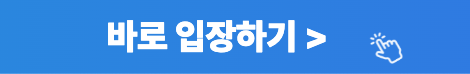
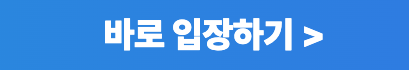
update img

Changed region(s): [[0.2054, 0.2571, 0.8802, 0.8571], [0.0, 0.9714, 1.0, 1.0]]

diff --git a/invitation.html b/invitation.html
@@ -48,34 +48,33 @@
       <img class="line01" src="./img/line.png" alt="">
    </h2>
    
-      <h2 style="font-weight:bold;line-height:140%;">1. 현재 페이지 아래에 있는<br>'바로 입장하기' 버튼을 클릭을 해주세요.<br><br>
+      <h2 style="font-weight:bold;line-height:140%;">1. 현재 페이지 아래에 떠 있는<br>'바로 입장하기' 버튼을 클릭을 해주세요.<br><br>
       </h2>
-         <img src="./img/btn-1.png" alt="" class="i1">   <br><br><br><br>
+         <img src="./img/btn-1.png" alt="" class="i1" style="max-width:300px;">   
+         <br><br><br><br>
 
          <h2 style="font-weight:bold;line-height:140%;">2. '그룹 오픈채팅 참여하기'를<br>클릭(<img src="./img/pointer.png" style="width:35px;">)을 해주세요.<br><br>
          </h2>
-            <img src="./img/invt-1.gif" alt="" class="i1" style="border:1px solid #000;">  <br><br><br><br>
+            <img src="./img/invt-1.gif" alt="" class="i1" style="border:1px solid #000; max-width:300px;">  <br><br><br><br>
 
          <h2 style="font-weight:bold;line-height:140%;">3. '오픈채팅 참여하기'를<br>클릭(<img src="./img/pointer.png" style="width:35px;">)을 해주세요.<br><br>
          </h2>
-            <img src="./img/invt-2.gif" alt="" class="i1">  <br><br><br><br>
+            <img src="./img/invt-2.gif" alt="" class="i1" style="max-width:300px;">  <br><br><br><br>
 
             <h2 style="font-weight:bold;line-height:140%;">4. 여러분의 성함 혹은<br>프로필을 선택(<img src="./img/pointer.png" style="width:35px;">)해 해주세요.<br><br>
             </h2>
-               <img src="./img/invt-3.gif" alt="" class="i1">  <br><br><br><br>
+               <img src="./img/invt-3.gif" alt="" class="i1" style="max-width:300px;">  <br><br><br><br>
 
                <h2 style="font-weight:bold;line-height:140%;">5. 입장이 완료되었습니다!<br>이젠 매일 한 편씩<br>아침마다 받아보세요 ~<br><br>
                </h2>
-                  <img src="./img/invt-4.jpeg" alt="" class="i1">  <br><br><br><br>
+                  <img src="./img/invt-4.jpeg" alt="" class="i1" style="max-width:300px;">  <br><br><br><br>
          
                   <img class="line01" src="./img/line.png" alt="">
                   <h2 style="padding-bottom:0 !important;line-height:140%;">마음 건강을 위한 정보 전달을<br>목적으로 하는 만큼<br>사적인 이야기는 제한되니<br>규칙을 꼭 확인해주세요!
                    <img class="line01" src="./img/line.png" alt=""><br>
      
                     
-                   <a href="https://open.kakao.com/o/gbIfAl7g" class="btn-hover color-9" target="_blank">
-                    <span class="floating_text">바로 입장하기 ></span>
-                 </a><br><br>
+            
                  
 </div>
    </article>
@@ -139,171 +138,172 @@
  </script>
 
 <style>
-   /* 플로팅 메뉴 스타일 */
-   .floating_btn {
-      position: fixed;
-    left: 0;
-    right: 0;
-    bottom: 0;
-    z-index: 300;
-      font-size: 32px;
-      font-weight: 600;
-      color: #fff;
-      cursor: pointer;
-      /* margin: 20px; */
-      height: 68px;
-      text-align:center;
-      vertical-align: middle !important;
-      border: none;
-      background-size: 300% 100%;
-  
-      /* border-radius: 50px; */
-      moz-transition: all .4s ease-in-out;
-      -o-transition: all .4s ease-in-out;
-      -webkit-transition: all .4s ease-in-out;
-      transition: all .4s ease-in-out;
-   }
-
-   .floating_text {
-    display: inline-block;
-    /* vertical-align: top; */
-    color: #fff;
-    font-size: 32px;
-    line-height: 68px;
-    font-weight: 900;
-}
-
-.floating_text:hover {
-    color: #fff2aa;
-    transition:1s;
-    
-}
-
-@-webkit-keyframes gradient {
-	0% {
-		background-position: 0% 50%;
-	}
-	50% {
-		background-position: 100% 50%;
-	}
-	100% {
-		background-position: 0% 50%;
-	}
-}
-
-@keyframes gradient {
-	0% {
-		background-position: 0% 50%;
-	}
-	50% {
-		background-position: 100% 50%;
-	}
-	100% {
-		background-position: 0% 50%;
-	}
-
+    /* 플로팅 메뉴 스타일 */
+    .floating_btn {
+       position: fixed;
+     left: 0;
+     right: 0;
+     bottom: 0;
+     z-index: 300;
+       font-size: 32px;
+       font-weight: 600;
+       color: #fff;
+       cursor: pointer;
+       /* margin: 20px; */
+       height: 68px;
+       text-align:center;
+       vertical-align: middle !important;
+       border: none;
+       background-size: 300% 100%;
    
-}
-
-@keyframes finger {
-      0% {opacity:0;}
-      50% {opacity:1;}
-      100% {opacity:0;}
+       /* border-radius: 50px; */
+       moz-transition: all .4s ease-in-out;
+       -o-transition: all .4s ease-in-out;
+       -webkit-transition: all .4s ease-in-out;
+       transition: all .4s ease-in-out;
     }
-
-
-.click_img {position:absolute; left:58%; top:30px; width:30px; animation: finger 1s infinite; animation-timing-function:linear; z-index:100;}
-
-@media screen and (max-width:800px) {
-   .click_img {left:80%;}
-}
-
-.btn-hover {
-   /* position: fixed;
-    left: 0;
-    right: 0;
-    bottom: 0; */
-    display: block;
-    width:95%;
-    /* height: 100%; */
-    padding:20px 60px;
-    /* margin:auto 2%; */
-    z-index: 300;
-      font-size: 32px;
-      font-weight: 600;
-      color: #fff;
-      cursor: pointer;
-      /* margin: 20px; */
-      border-radius:10px;
-      text-align:center;
-      vertical-align: middle !important;
-      border: none;
-      background-size: 300% 100%;
-  
-      /* border-radius: 50px; */
-      moz-transition: all .4s ease-in-out;
-      -o-transition: all .4s ease-in-out;
-      -webkit-transition: all .4s ease-in-out;
-      transition: all .4s ease-in-out;
-  }
-  
-  .btn-hover:hover {
-      background-position: 100% 0;
-      moz-transition: all .4s ease-in-out;
-      -o-transition: all .4s ease-in-out;
-      -webkit-transition: all .4s ease-in-out;
-      transition: all .4s ease-in-out;
-  }
-  
-  .btn-hover:focus {
-      outline: none;
-  }
-  
-  .btn-hover.color-1 {
-      background-image: linear-gradient(to right, #25aae1, #40e495, #30dd8a, #2bb673);
-      box-shadow: 0 4px 15px 0 rgba(49, 196, 190, 0.75);
-  }
-  .btn-hover.color-2 {
-      background-image: linear-gradient(to right, #f5ce62, #e43603, #fa7199, #e85a19);
-      box-shadow: 0 4px 15px 0 rgba(229, 66, 10, 0.75);
-  }
-  .btn-hover.color-3 {
-      background-image: linear-gradient(to right, #667eea, #764ba2, #6B8DD6, #8E37D7);
-      box-shadow: 0 4px 15px 0 rgba(116, 79, 168, 0.75);
-  }
-  .btn-hover.color-4 {
-      background-image: linear-gradient(to right, #fc6076, #ff9a44, #ef9d43, #e75516);
-      box-shadow: 0 4px 15px 0 rgba(252, 104, 110, 0.75);
-  }
-  .btn-hover.color-5 {
-      background-image: linear-gradient(to right, #0ba360, #3cba92, #30dd8a, #2bb673);
-      box-shadow: 0 4px 15px 0 rgba(23, 168, 108, 0.75);
-  }
-  .btn-hover.color-6 {
-      background-image: linear-gradient(to right, #009245, #FCEE21, #00A8C5, #D9E021);
-      box-shadow: 0 4px 15px 0 rgba(83, 176, 57, 0.75);
-  }
-  .btn-hover.color-7 {
-      background-image: linear-gradient(to right, #6253e1, #852D91, #A3A1FF, #F24645);
-      box-shadow: 0 4px 15px 0 rgba(126, 52, 161, 0.75);
-  }
-  .btn-hover.color-8 {
-      background-image: linear-gradient(to right, #29323c, #485563, #2b5876, #4e4376);
-      box-shadow: 0 4px 15px 0 rgba(45, 54, 65, 0.75);
-  }
-  .btn-hover.color-9 {
-      background-image: linear-gradient(to right, #25aae1, #4481eb, #04befe, #3f86ed);
-      box-shadow: 0 4px 15px 0 rgba(65, 132, 234, 0.75);
-  }
-  .btn-hover.color-10 {
-          background-image: linear-gradient(to right, #ed6ea0, #ec8c69, #f7186a , #FBB03B);
-      box-shadow: 0 4px 15px 0 rgba(236, 116, 149, 0.75);
-  }
-  .btn-hover.color-11 {
-         background-image: linear-gradient(to right, #eb3941, #f15e64, #e14e53, #e2373f);  box-shadow: 0 5px 15px rgba(242, 97, 103, .4);
-  }
-</style>
-
+ 
+    .floating_text {
+     display: inline-block;
+     vertical-align: top;
+     color: #fff;
+     font-size: 32px;
+     line-height: 68px;
+     font-weight: 900;
+ }
+ 
+ .floating_text:hover {
+     color: #fff2aa;
+     transition:1s;
+     
+ }
+ 
+ @-webkit-keyframes gradient {
+     0% {
+         background-position: 0% 50%;
+     }
+     50% {
+         background-position: 100% 50%;
+     }
+     100% {
+         background-position: 0% 50%;
+     }
+ }
+ 
+ @keyframes gradient {
+     0% {
+         background-position: 0% 50%;
+     }
+     50% {
+         background-position: 100% 50%;
+     }
+     100% {
+         background-position: 0% 50%;
+     }
+ 
+    
+ }
+ 
+ @keyframes finger {
+       0% {opacity:0;}
+       50% {opacity:1;}
+       100% {opacity:0;}
+     }
+ 
+ 
+ .click_img {position:absolute; left:58%; top:30px; width:30px; animation: finger 1s infinite; animation-timing-function:linear; z-index:100;}
+ 
+ @media screen and (max-width:800px) {
+    .click_img {left:80%;}
+ }
+ 
+ .btn-hover {
+    position: fixed;
+     left: 0;
+     right: 0;
+     bottom: 0;
+     z-index: 300;
+       font-size: 32px;
+       font-weight: 600;
+       color: #fff;
+       cursor: pointer;
+       /* margin: 20px; */
+       height: 68px;
+       text-align:center;
+       vertical-align: middle !important;
+       border: none;
+       background-size: 300% 100%;
+   
+       /* border-radius: 50px; */
+       moz-transition: all .4s ease-in-out;
+       -o-transition: all .4s ease-in-out;
+       -webkit-transition: all .4s ease-in-out;
+       transition: all .4s ease-in-out;
+   }
+   
+   .btn-hover:hover {
+       background-position: 100% 0;
+       moz-transition: all .4s ease-in-out;
+       -o-transition: all .4s ease-in-out;
+       -webkit-transition: all .4s ease-in-out;
+       transition: all .4s ease-in-out;
+   }
+   
+   .btn-hover:focus {
+       outline: none;
+   }
+   
+   .btn-hover.color-1 {
+       background-image: linear-gradient(to right, #25aae1, #40e495, #30dd8a, #2bb673);
+       box-shadow: 0 4px 15px 0 rgba(49, 196, 190, 0.75);
+   }
+   .btn-hover.color-2 {
+       background-image: linear-gradient(to right, #f5ce62, #e43603, #fa7199, #e85a19);
+       box-shadow: 0 4px 15px 0 rgba(229, 66, 10, 0.75);
+   }
+   .btn-hover.color-3 {
+       background-image: linear-gradient(to right, #667eea, #764ba2, #6B8DD6, #8E37D7);
+       box-shadow: 0 4px 15px 0 rgba(116, 79, 168, 0.75);
+   }
+   .btn-hover.color-4 {
+       background-image: linear-gradient(to right, #fc6076, #ff9a44, #ef9d43, #e75516);
+       box-shadow: 0 4px 15px 0 rgba(252, 104, 110, 0.75);
+   }
+   .btn-hover.color-5 {
+       background-image: linear-gradient(to right, #0ba360, #3cba92, #30dd8a, #2bb673);
+       box-shadow: 0 4px 15px 0 rgba(23, 168, 108, 0.75);
+   }
+   .btn-hover.color-6 {
+       background-image: linear-gradient(to right, #009245, #FCEE21, #00A8C5, #D9E021);
+       box-shadow: 0 4px 15px 0 rgba(83, 176, 57, 0.75);
+   }
+   .btn-hover.color-7 {
+       background-image: linear-gradient(to right, #6253e1, #852D91, #A3A1FF, #F24645);
+       box-shadow: 0 4px 15px 0 rgba(126, 52, 161, 0.75);
+   }
+   .btn-hover.color-8 {
+       background-image: linear-gradient(to right, #29323c, #485563, #2b5876, #4e4376);
+       box-shadow: 0 4px 15px 0 rgba(45, 54, 65, 0.75);
+   }
+   .btn-hover.color-9 {
+       background-image: linear-gradient(to right, #25aae1, #4481eb, #04befe, #3f86ed);
+       box-shadow: 0 4px 15px 0 rgba(65, 132, 234, 0.75);
+   }
+   .btn-hover.color-10 {
+           background-image: linear-gradient(to right, #ed6ea0, #ec8c69, #f7186a , #FBB03B);
+       box-shadow: 0 4px 15px 0 rgba(236, 116, 149, 0.75);
+   }
+   .btn-hover.color-11 {
+          background-image: linear-gradient(to right, #eb3941, #f15e64, #e14e53, #e2373f);  box-shadow: 0 5px 15px rgba(242, 97, 103, .4);
+   }
+ </style>
+ 
+ <a href="https://open.kakao.com/o/gbIfAl7g" class="btn-hover color-9" target="_blank">
+    <span class="floating_text">바로 입장하기 > 
+        <img src="./img/click_icon.png" alt="" class="click_img">
+    </span>
+ </a>
+ 
 
    
    </body></html>
